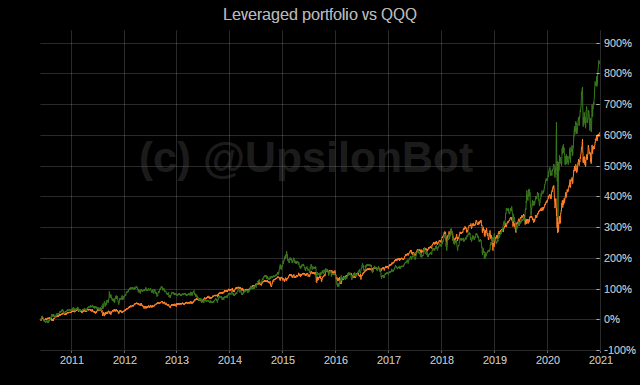
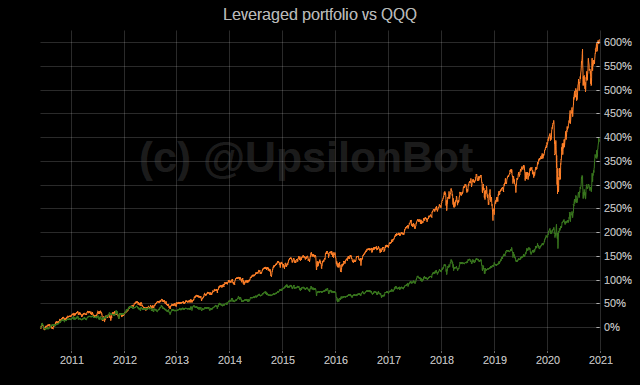
autoupdate 2021-01-09-22:38:10

Changed region(s): [[0.0625, 0.0933, 1.0, 0.8705], [0.9375, 0.715, 1.0, 0.8705], [0.9375, 0.9016, 1.0, 0.9326]]

diff --git a/tester/tester.py b/tester/tester.py
@@ -120,7 +120,7 @@ def portfolio_tester(init_cap=10000, port_id='parking', allocator_data_interval=
         portfolio_args['cor_linkage_'] = 'ward'
         portfolio_args['cor_risk_measure_'] = 'variance'
         portfolio_args['cor_graphs_show'] = False
-        portfolio_args['cor_selector_type'] = 2
+        portfolio_args['cor_selector_type'] = 13
         portfolio_args['cor_selector_adjustment'] = False
         portfolio_args['cor_selector_p1'] = 21
         portfolio_args['cor_selector_p2'] = 126
@@ -243,7 +243,7 @@ def portfolio_tester(init_cap=10000, port_id='parking', allocator_data_interval=
 
         # ======================================== L E V E R A G E D ========================================
         portfolio_args['port_id'] = 'leveraged'
-        portfolio_args['is_aliased'] = True
+        portfolio_args['is_aliased'] = False
         portfolio_args['etf_only'] = True
         portfolio_args['cor_perc'] = 0.65
         portfolio_args['sat_perc'] = 0.35
@@ -343,18 +343,18 @@ if __name__ == '__main__':
     # main()
     mp.set_start_method('spawn')
     q = mp.Queue()
-    # p1 = mp.Process(target=portfolio_tester, args=(10000, 'parking', 3, 12, datetime.date(2008, 1, 1),))
-    # p1.start()
-    # p2 = mp.Process(target=portfolio_tester, args=(10000, 'allweather', 3, 12, datetime.date(2008, 1, 1),))
-    # p2.start()
-    # p3 = mp.Process(target=portfolio_tester, args=(10000, 'balanced', 3, 12, datetime.date(2008, 1, 1),))
-    # p3.start()
-    # p4 = mp.Process(target=portfolio_tester, args=(10000, 'aggressive', 3, 12, datetime.date(2008, 1, 1),))
-    # p4.start()
+    p1 = mp.Process(target=portfolio_tester, args=(10000, 'parking', 3, 12, datetime.date(2008, 1, 1),))
+    p1.start()
+    p2 = mp.Process(target=portfolio_tester, args=(10000, 'allweather', 3, 12, datetime.date(2008, 1, 1),))
+    p2.start()
+    p3 = mp.Process(target=portfolio_tester, args=(10000, 'balanced', 3, 12, datetime.date(2008, 1, 1),))
+    p3.start()
+    p4 = mp.Process(target=portfolio_tester, args=(10000, 'aggressive', 3, 12, datetime.date(2008, 1, 1),))
+    p4.start()
     p5 = mp.Process(target=portfolio_tester, args=(10000, 'leveraged', 3, 12,  datetime.date(2010, 6, 1),))
     p5.start()
-    # p1.join()
-    # p2.join()
-    # p3.join()
-    # p4.join()
+    p1.join()
+    p2.join()
+    p3.join()
+    p4.join()
     p5.join()
